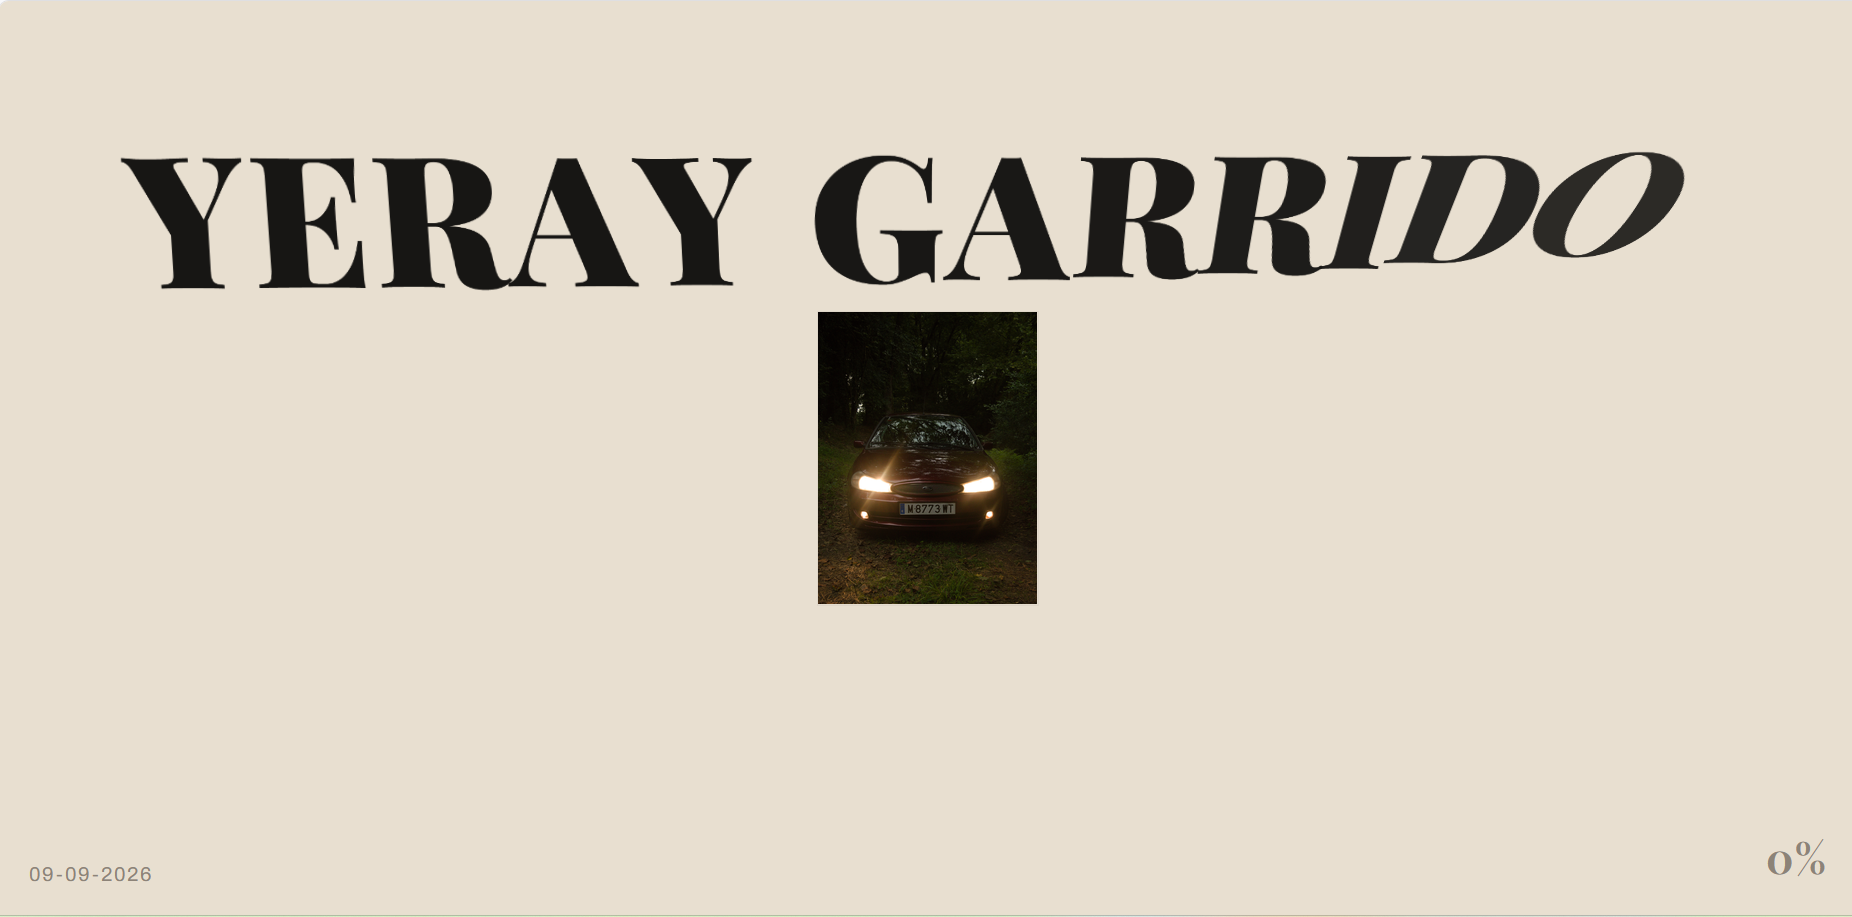
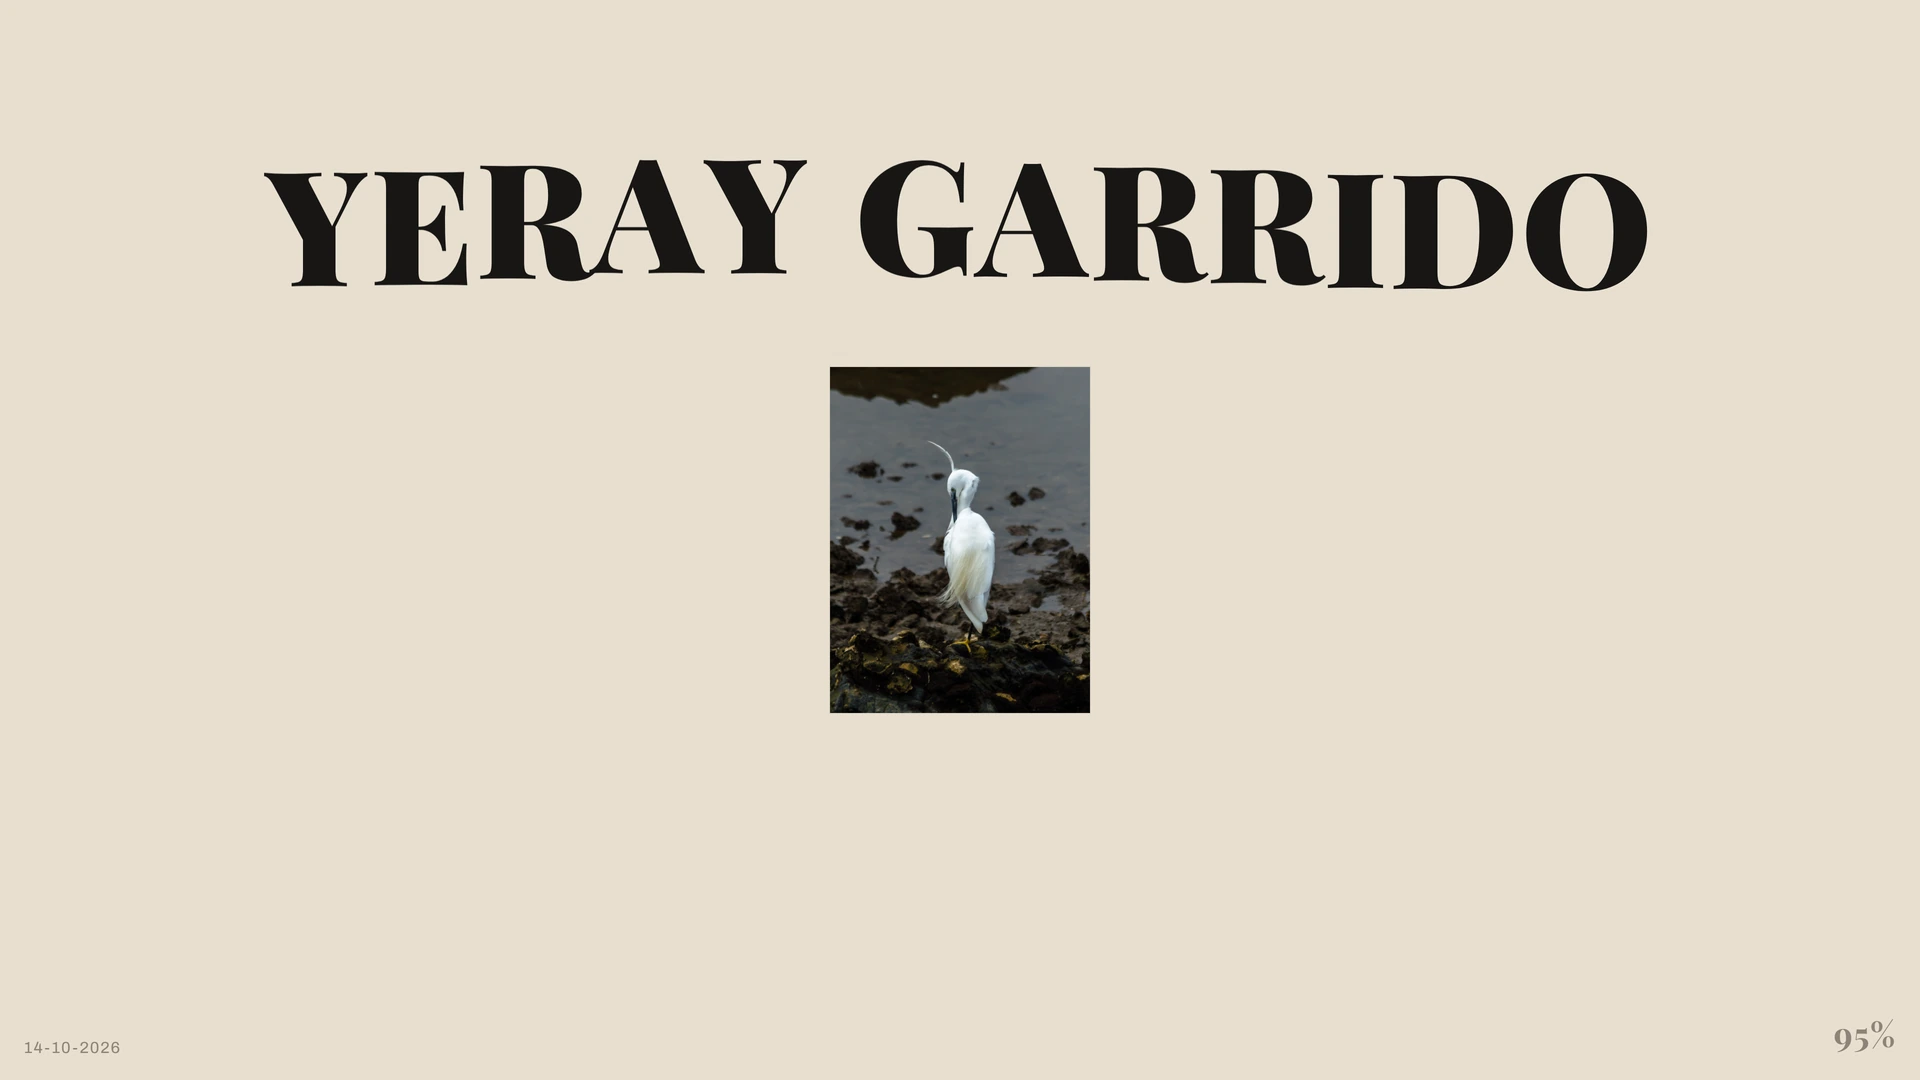
feat(projects): cambiar icono en tarjeta 'Ver todos' a flecha y establecer pantalla de carga real como portada de Portfolio Fotografico

Changed region(s): [[0.0616, 0.1221, 0.9233, 0.6718], [0.0, 0.9466, 0.0923, 0.9771], [0.9541, 0.916, 0.9849, 0.9771]]

diff --git a/src/components/Projects.tsx b/src/components/Projects.tsx
@@ -424,7 +424,10 @@ export default function Projects() {
               <div data-project-card onClick={openProjectsModal} className="w-[82vw] md:w-[45vw] max-w-150 shrink-0 flex flex-col group snap-start cursor-pointer h-full">
                 <div className="aspect-video border border-white/10 mb-4 md:mb-6 flex items-center justify-center group-hover:border-white/40 group-hover:bg-white/5 transition-all">
                   <div className="w-14 md:w-16 h-14 md:h-16 border border-white/30 flex items-center justify-center group-hover:bg-white group-hover:text-black transition-all">
-                    <svg width="26" height="26" viewBox="0 0 24 24" fill="none" stroke="currentColor" strokeWidth="2.5"><line x1="12" y1="5" x2="12" y2="19"></line><line x1="5" y1="12" x2="19" y2="12"></line></svg>
+                    <svg width="26" height="26" viewBox="0 0 24 24" fill="none" stroke="currentColor" strokeWidth="2.5" strokeLinecap="square" strokeLinejoin="miter" className="transform group-hover:translate-x-1 transition-transform">
+                      <line x1="4" y1="12" x2="20" y2="12"></line>
+                      <polyline points="13 5 20 12 13 19"></polyline>
+                    </svg>
                   </div>
                 </div>
                 <h3 className="font-wide text-xl md:text-3xl uppercase font-bold text-white/50 group-hover:text-white transition-colors">{t("projects.viewAll")}</h3>
